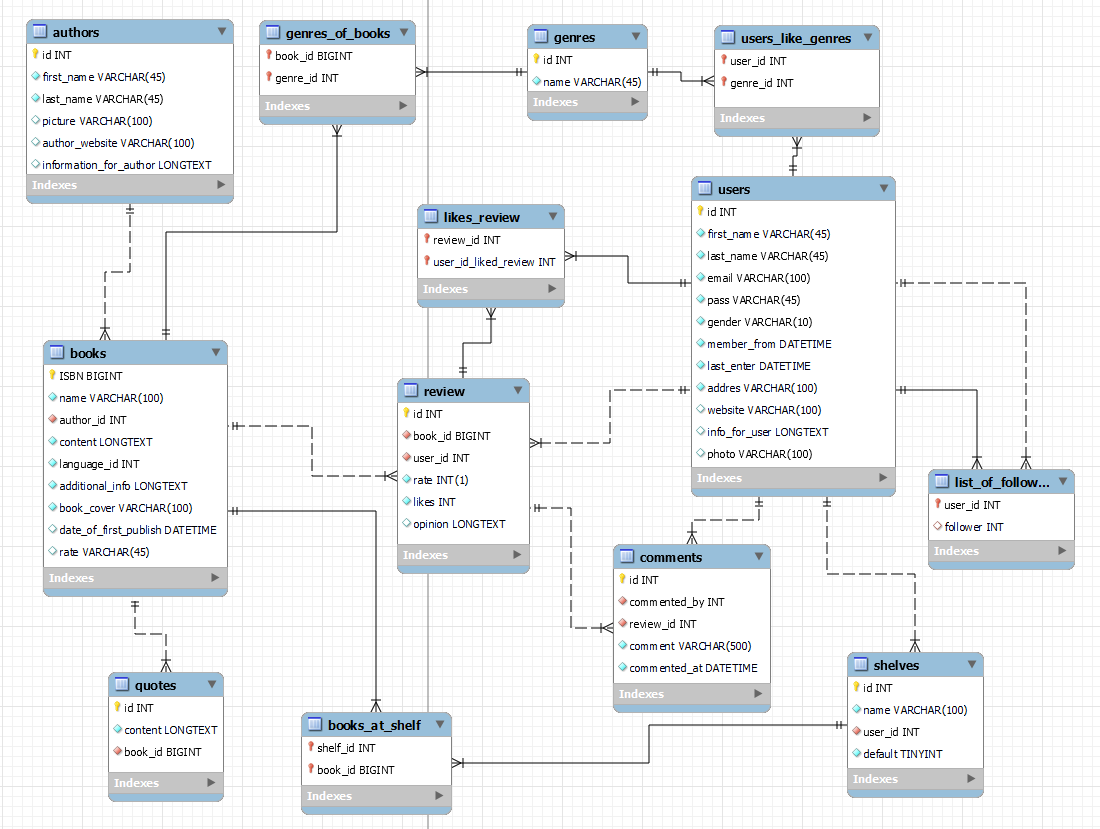
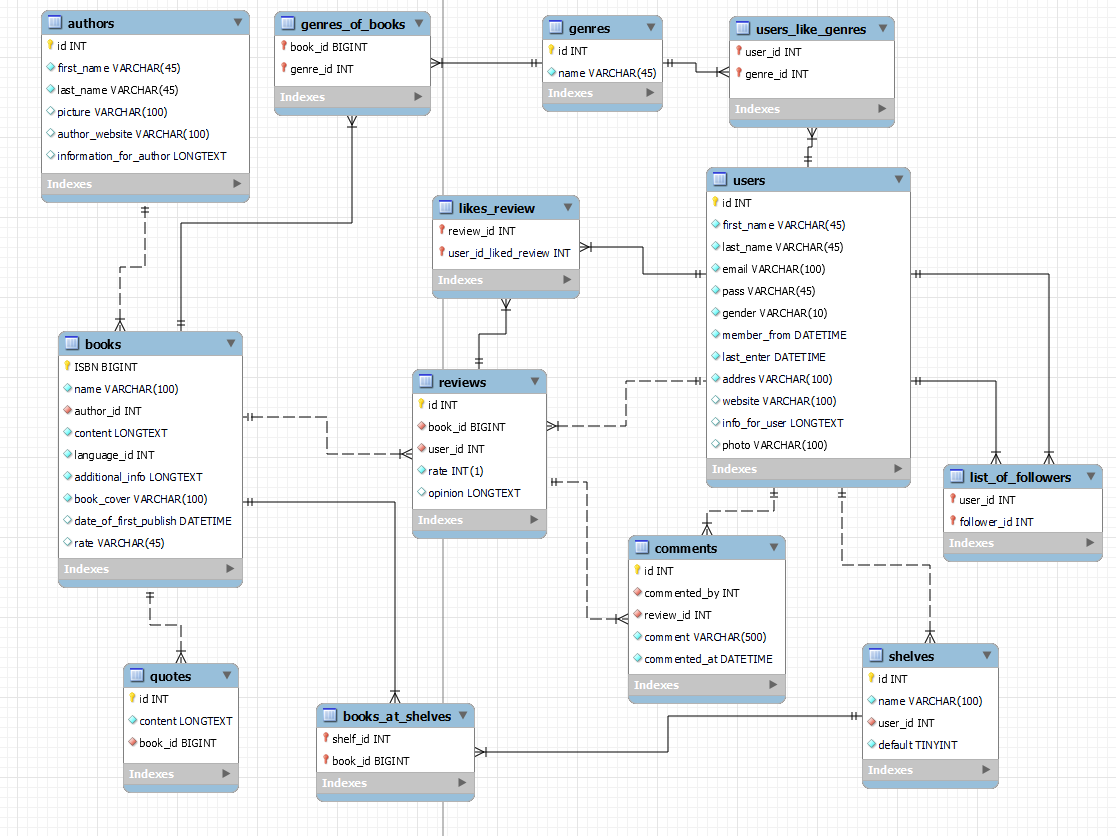
entity&relations (user,shelf,review,genre,comment,book),BcryptDependency

Changed region(s): [[0.0, 0.0, 0.9891, 1.0], [0.8036, 0.3016, 0.9273, 0.3619], [0.2782, 0.5127, 0.3091, 0.5428]]

diff --git a/GoodReadsProjectV1/src/main/java/com/ittalents/goodreadsprojectv1/model/entity/User.java b/GoodReadsProjectV1/src/main/java/com/ittalents/goodreadsprojectv1/model/entity/User.java
@@ -4,13 +4,15 @@ import lombok.Data;
 
 import javax.persistence.*;
 import java.time.LocalDateTime;
+import java.util.List;
+import java.util.Set;
 
 @Entity
-@Table(name="users")
+@Table(name = "users")
 @Data
 public class User {
     @Id
-    @GeneratedValue(strategy =  GenerationType.IDENTITY)
+    @GeneratedValue(strategy = GenerationType.IDENTITY)
     private long id;
     @Column
     private String firstName;
@@ -23,14 +25,43 @@ public class User {
     @Column
     private String gender;
     @Column
-    private String website;
-    @Column
-    private String infoForUser;
-    @Column
     private LocalDateTime memberFrom;
     @Column
     private LocalDateTime lastEnter;
     @Column
     private String address;
+    @Column
+    private String website;
+    @Column
+    private String infoForUser;
+    @Column
+    private String photo;
+    @ManyToMany
+    @JoinTable(
+            name = "users_like_genres",
+            joinColumns = @JoinColumn(name = "user_id"),
+            inverseJoinColumns = @JoinColumn(name = "genre_id"))
+    private Set<Genre> likedGenres;
+    @OneToMany(mappedBy = "user")
+    List<Review> writtenReviews;
+    @ManyToMany
+    @JoinTable(
+            name ="likes_review",
+            joinColumns = @JoinColumn(name ="user_id_liked_review"),
+            inverseJoinColumns = @JoinColumn(name = "review_id"))
+    private Set<Review> likedReviews;
+    @OneToMany(mappedBy = "user")
+    List<Comment> userCommentsForReviews;
+    @OneToMany(mappedBy = "user")
+    private List<Shelf> userShelves;
+    @ManyToMany
+    @JoinTable(
+            name ="list_of_followers",
+            joinColumns = @JoinColumn(name="user_id"),
+            inverseJoinColumns =@JoinColumn(name="follower_id"))
+    private Set<User> followers;
+    @ManyToMany(mappedBy = "followers")
+    private Set<User> following;
+
 
 }

diff --git a/GoodReadsProjectV1/src/main/java/com/ittalents/goodreadsprojectv1/GoodReadsProjectV1Application.java b/GoodReadsProjectV1/src/main/java/com/ittalents/goodreadsprojectv1/GoodReadsProjectV1Application.java
@@ -4,6 +4,7 @@ import org.modelmapper.ModelMapper;
 import org.springframework.boot.SpringApplication;
 import org.springframework.boot.autoconfigure.SpringBootApplication;
 import org.springframework.context.annotation.Bean;
+import org.springframework.security.crypto.bcrypt.BCryptPasswordEncoder;
 
 @SpringBootApplication
 public class GoodReadsProjectV1Application {
@@ -11,10 +12,12 @@ public class GoodReadsProjectV1Application {
     public static void main(String[] args) {
         SpringApplication.run(GoodReadsProjectV1Application.class, args);
     }
-
-
     @Bean
     public ModelMapper modelMapper(){
         return new ModelMapper();
+    }
+    @Bean
+    public BCryptPasswordEncoder encoder(){
+        return new BCryptPasswordEncoder();
     }
 }

diff --git a/GoodReadsProjectV1/src/main/java/com/ittalents/goodreadsprojectv1/model/entity/Shelf.java b/GoodReadsProjectV1/src/main/java/com/ittalents/goodreadsprojectv1/model/entity/Shelf.java
@@ -1,4 +1,30 @@
 package com.ittalents.goodreadsprojectv1.model.entity;
 
+import lombok.Data;
+
+import javax.persistence.*;
+import java.util.List;
+import java.util.Set;
+
+@Entity
+@Table(name = "shelves")
+@Data
 public class Shelf {
+
+    @Id
+    @GeneratedValue(strategy = GenerationType.IDENTITY)
+    private  int id;
+    @Column
+    private String name;
+    @Column
+    private boolean isDefaut = false;
+    @ManyToOne
+    @JoinColumn(name ="user_id" )
+    private User user;
+    @ManyToMany
+    @JoinTable(
+            name = "books_at_shelves",
+            joinColumns = @JoinColumn(name = "shelf_id"),
+            inverseJoinColumns = @JoinColumn(name = "book_id"))
+    private Set<Book> booksAtThisShelf;
 }

diff --git a/GoodReadsProjectV1/src/main/java/com/ittalents/goodreadsprojectv1/model/entity/Review.java b/GoodReadsProjectV1/src/main/java/com/ittalents/goodreadsprojectv1/model/entity/Review.java
@@ -1,4 +1,31 @@
 package com.ittalents.goodreadsprojectv1.model.entity;
 
+import lombok.Data;
+
+import javax.persistence.*;
+import java.util.List;
+import java.util.Set;
+
+@Entity
+@Table(name ="reviews")
+@Data
 public class Review {
+    @Id
+    @GeneratedValue(strategy = GenerationType.IDENTITY)
+    private int id;
+    @ManyToOne
+    @JoinColumn(name = "book_id")
+    private Book book;
+    @ManyToOne
+    @JoinColumn(name = "user_id")
+    private User user;
+    @Column
+    private int rate;
+    @Column
+    private String opinion;
+    @ManyToMany(mappedBy = "likedReviews")
+    private Set<User> usersLikedThisReview;
+    @OneToMany(mappedBy = "review")
+    List<Comment> commentsForThisReview;
+
 }

diff --git a/GoodReadsProjectV1/src/main/java/com/ittalents/goodreadsprojectv1/model/entity/Comment.java b/GoodReadsProjectV1/src/main/java/com/ittalents/goodreadsprojectv1/model/entity/Comment.java
@@ -1,4 +1,25 @@
 package com.ittalents.goodreadsprojectv1.model.entity;
 
+import lombok.Data;
+
+import javax.persistence.*;
+import java.time.LocalDateTime;
+
+@Entity
+@Table(name = "comments")
+@Data
 public class Comment {
+    @Id
+    @GeneratedValue(strategy = GenerationType.IDENTITY)
+    private int id;
+    @ManyToOne
+    @JoinColumn(name = "comment_by")
+    private User user;
+    @ManyToOne
+    @JoinColumn(name = "review_id")
+    private Review review;
+    @Column
+    private String comment;
+    @Column
+    private LocalDateTime commentedAt;
 }

diff --git a/GoodReadsProjectV1/src/main/java/com/ittalents/goodreadsprojectv1/model/entity/Genre.java b/GoodReadsProjectV1/src/main/java/com/ittalents/goodreadsprojectv1/model/entity/Genre.java
@@ -3,6 +3,8 @@ package com.ittalents.goodreadsprojectv1.model.entity;
 import lombok.Data;
 
 import javax.persistence.*;
+import java.util.List;
+import java.util.Set;
 
 @Entity
 @Table(name = "genres")
@@ -10,9 +12,10 @@ import javax.persistence.*;
 public class Genre {
 
     @Id
-    @GeneratedValue(strategy =  GenerationType.IDENTITY)
+    @GeneratedValue(strategy = GenerationType.IDENTITY)
     private int id;
     @Column
     private String name;
-
+    @ManyToMany(mappedBy = "likedGenres")
+    private Set<User> userLikedGenre;
 }

diff --git a/GoodReadsProjectV1/src/main/java/com/ittalents/goodreadsprojectv1/model/entity/Book.java b/GoodReadsProjectV1/src/main/java/com/ittalents/goodreadsprojectv1/model/entity/Book.java
@@ -4,6 +4,8 @@ import lombok.Data;
 
 import javax.persistence.*;
 import java.util.Date;
+import java.util.List;
+import java.util.Set;
 
 @Entity
 @Table(name = "books")
@@ -26,4 +28,9 @@ public class Book {
     private Date dateOfPublish;
     @Column
     private String rate;
+    @OneToMany(mappedBy = "book")
+    List<Review> reviewsForBooks;
+    @ManyToMany(mappedBy = "booksAtThisShelf")
+    private Set<Shelf> shelvesOwnThisBook;
+
 }
